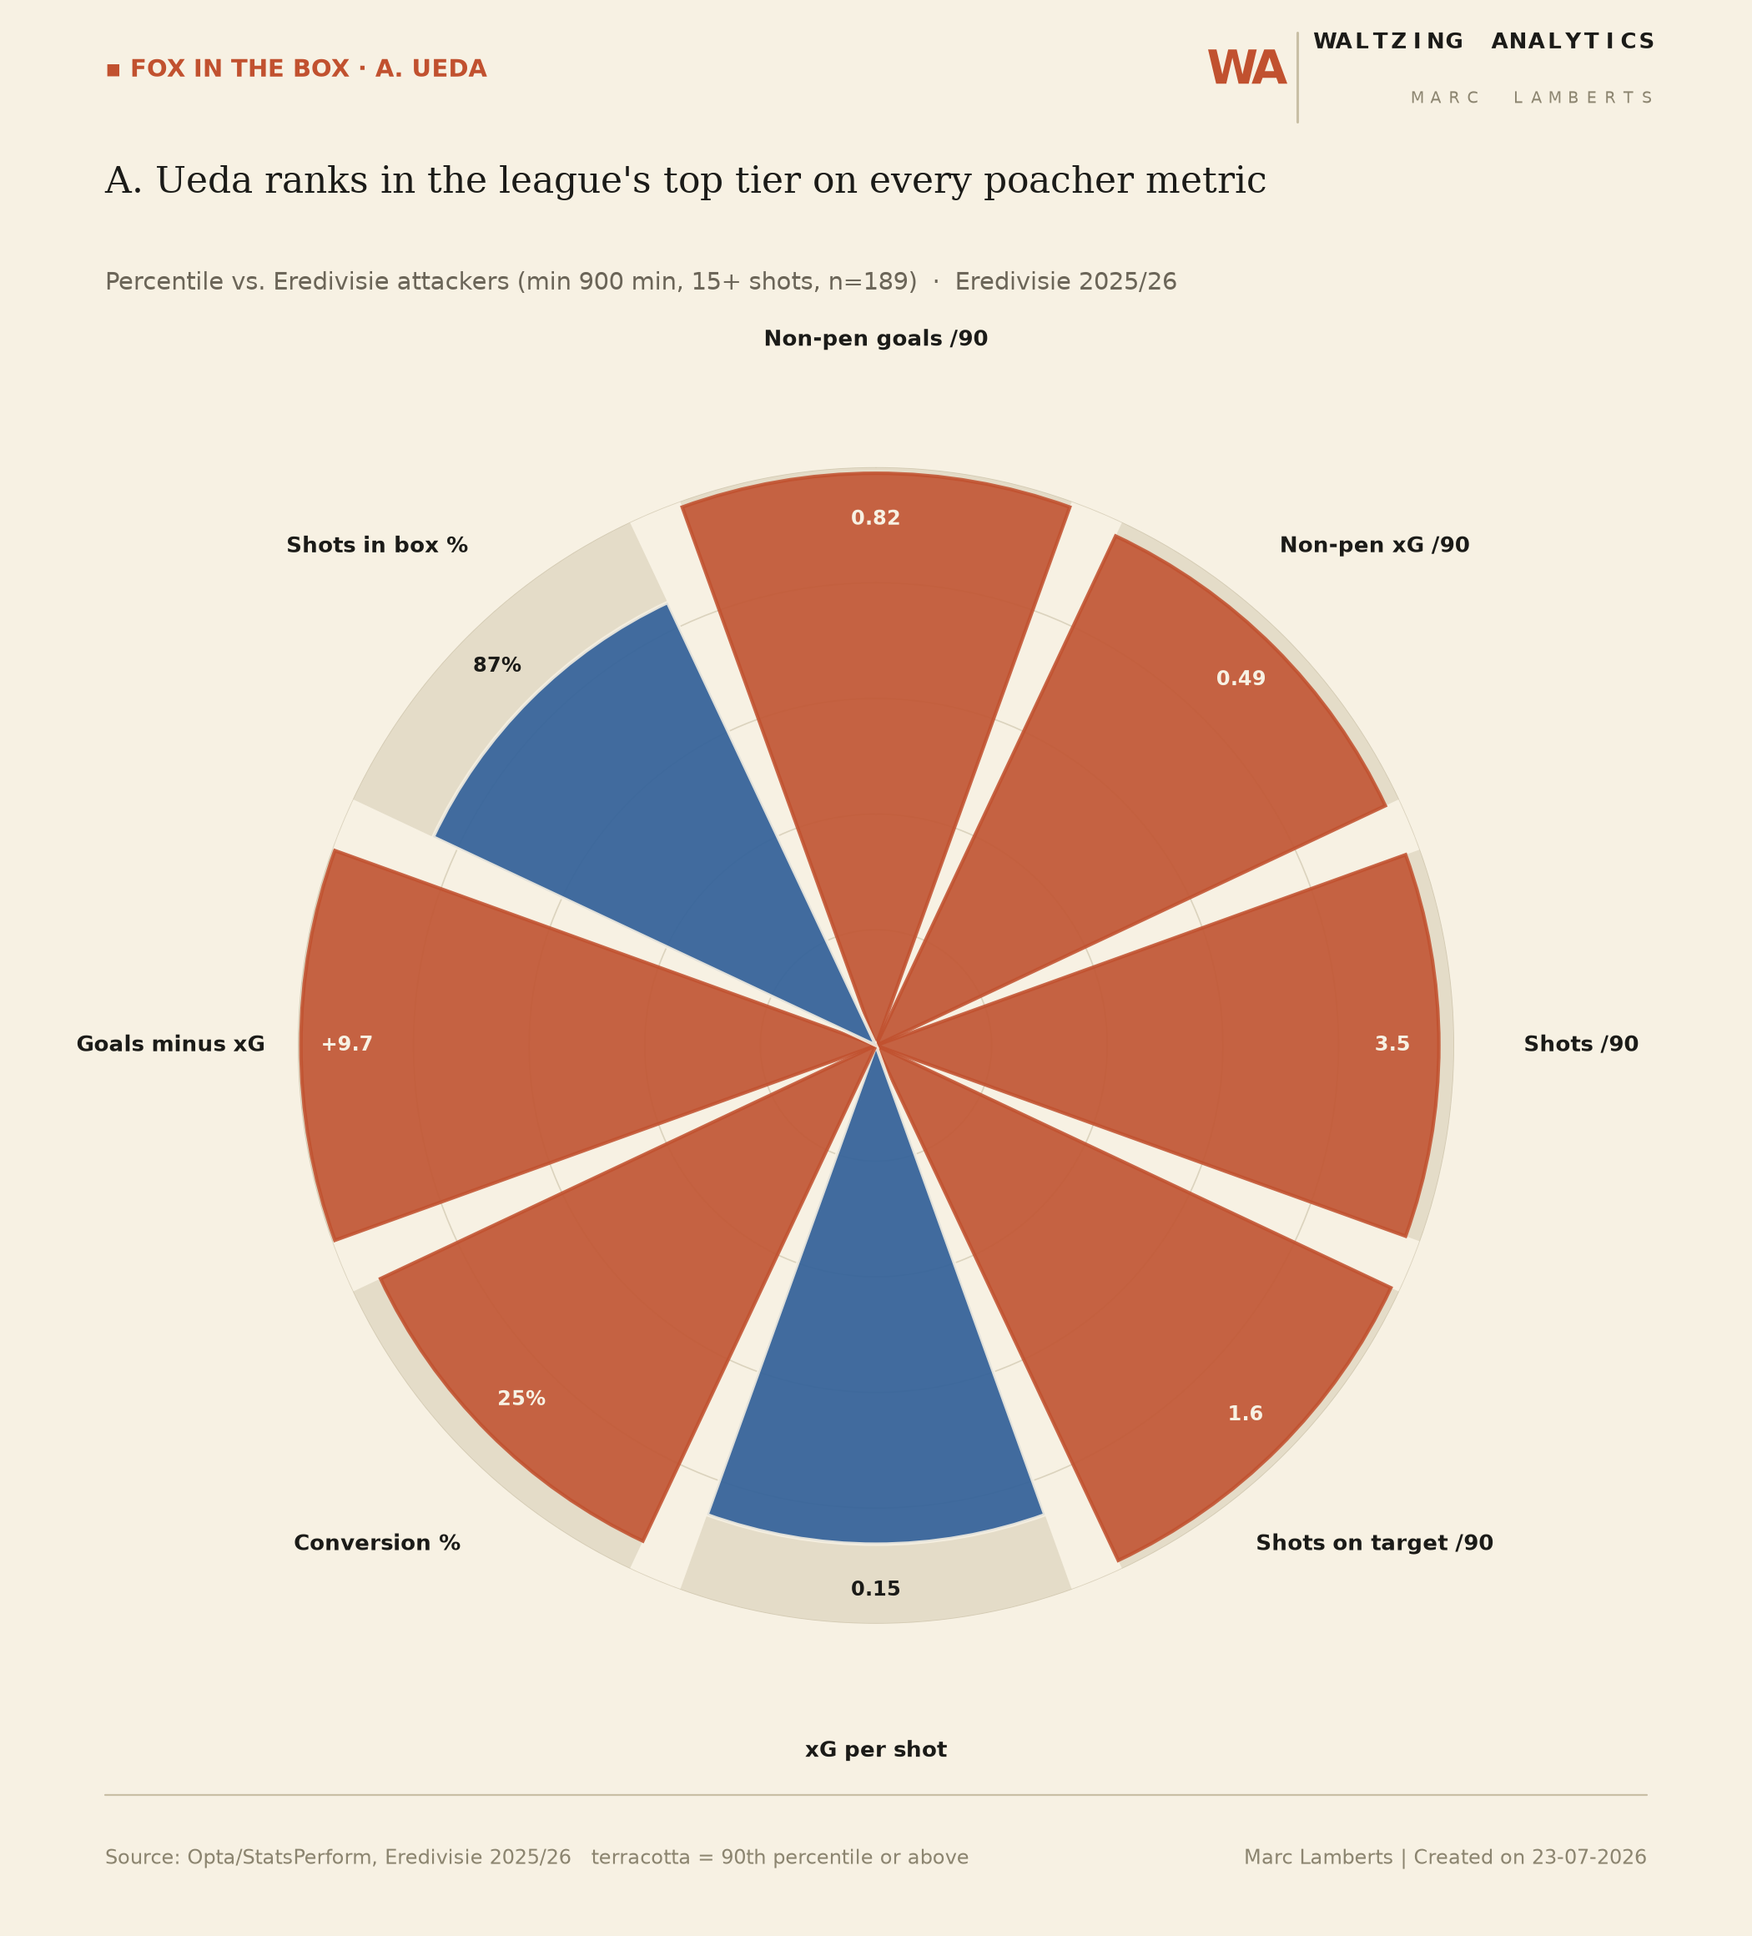
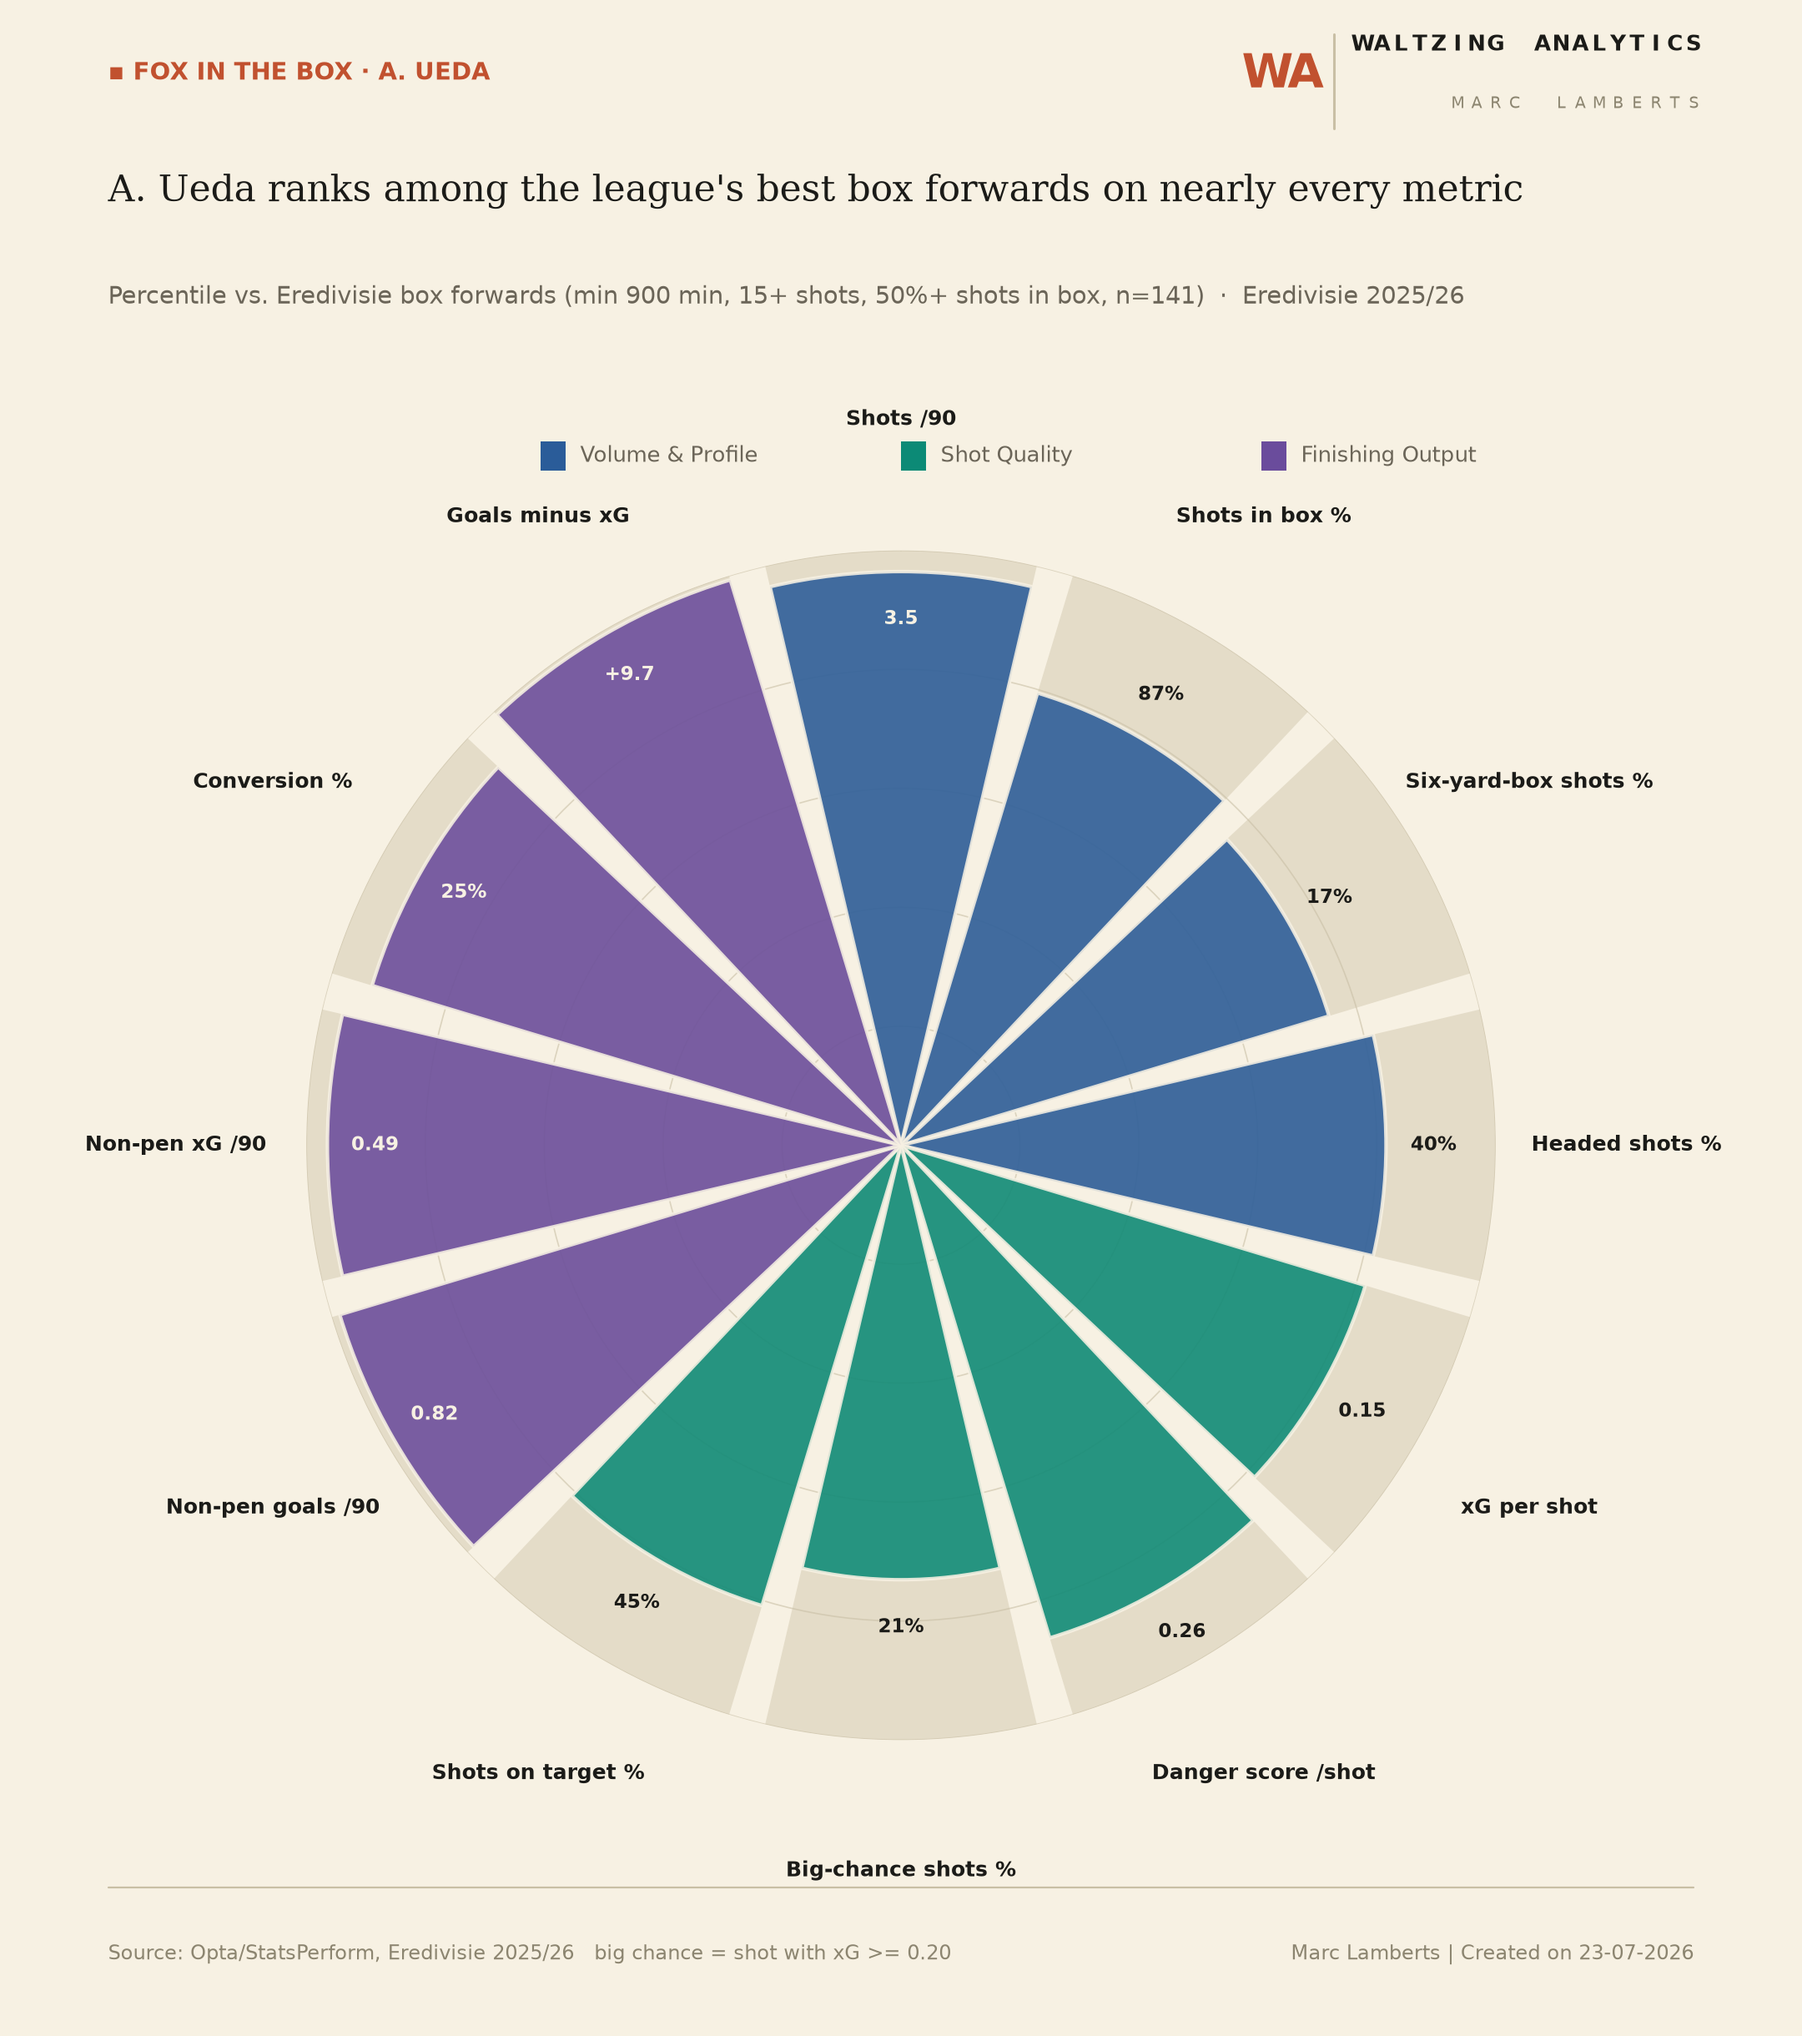
Make fox-in-the-box pizza plot more sophisticated: 3 categories, 12 metrics
Groups metrics into Volume & Profile / Shot Quality / Finishing Output
(color-coded, with a legend), adding headed-shots %, six-yard-box
shots %, danger-score-per-shot, and big-chance-shots % -- headers
recovered from raw Events qualifiers since body_part isn't in the
Danger CSV. Peer group now also requires >=50% of shots from inside
the box, so the comparison is against actual box forwards rather than
any attacker who logged 15 shots.

diff --git a/Danger/fox_in_the_box_pizza.py b/Danger/fox_in_the_box_pizza.py
@@ -1,10 +1,20 @@
 """
-"Fox in the box" pizza plot: percentile ranks on eight poacher-profile
-shooting metrics, one player against an Eredivisie attacking peer group
-(minutes >= 900, shots >= 15 -- enough attacking involvement to be a fair
-comparison without requiring a position field the underlying data doesn't
-carry). Combines shot-level data (Danger/all_eredivisie_danger_models.csv)
-with season minutes (GDA/gda_player_summary.csv).
+"Fox in the box" pizza plot: percentile ranks on twelve poacher-profile
+metrics across three categories, one player against an Eredivisie
+box-forward peer group (minutes >= 900, shots >= 15, and >= 50% of shots
+taken from inside the penalty box -- narrower and more defensible than a
+flat "attacker" filter, since it excludes wide/deep shot-takers who
+wouldn't be called foxes in the box in the first place).
+
+Categories:
+  Volume & Profile  -- how much of their shooting is box-based, and how
+  Shot Quality       -- how good the chances are once they get there
+  Finishing Output   -- what they actually do with them
+
+Sources: shot-level data (Danger/all_eredivisie_danger_models.csv),
+enriched with body-part (header) info recovered from the raw Events/*.json
+qualifiers (qualifierId 15 = head; not present in the Danger CSV itself),
+and season minutes (GDA/gda_player_summary.csv).
 
 Built in the Meridian house style (housestyle package).
 
@@ -12,6 +22,8 @@ Usage: python3 Danger/fox_in_the_box_pizza.py ["Player Name"] [out_dir]
 Defaults to A. Ueda.
 """
 import sys
+import glob
+import json
 from pathlib import Path
 
 sys.path.insert(0, str(Path(__file__).resolve().parent.parent))
@@ -19,38 +31,75 @@ sys.path.insert(0, str(Path(__file__).resolve().parent.parent))
 import numpy as np
 import pandas as pd
 import matplotlib.pyplot as plt
+import matplotlib.patches as mpatches
 
 from housestyle import style, components
 
 REPO_ROOT = Path(__file__).resolve().parent.parent
+EVENTS_DIR = REPO_ROOT / "Events"
 DANGER_CSV = REPO_ROOT / "Danger" / "all_eredivisie_danger_models.csv"
 GDA_CSV = REPO_ROOT / "GDA" / "gda_player_summary.csv"
 
 BOX_X = 83.0
+SIX_YARD_X = 94.0          # six-yard-box depth on the Opta 100x100 grid
+BIG_CHANCE_XG = 0.20       # conventional big-chance threshold (provider-independent rule of thumb)
+HEAD_QID = 15
+SHOT_TYPE_IDS = {13, 14, 15, 16}
+
 MIN_MINUTES = 900
 MIN_SHOTS = 15
+MIN_BOX_SHARE = 0.50
 
+# (key, label, format, category_index)
 METRICS = [
-    ("npg90", "Non-pen goals /90", "{:.2f}"),
-    ("npxg90", "Non-pen xG /90", "{:.2f}"),
-    ("shots90", "Shots /90", "{:.1f}"),
-    ("sot90", "Shots on target /90", "{:.1f}"),
-    ("xg_per_shot", "xG per shot", "{:.2f}"),
-    ("conversion", "Conversion %", "{:.0f}%"),
-    ("finishing", "Goals minus xG", "{:+.1f}"),
-    ("box_share_pct", "Shots in box %", "{:.0f}%"),
+    ("shots90", "Shots /90", "{:.1f}", 0),
+    ("box_share_pct", "Shots in box %", "{:.0f}%", 0),
+    ("six_yard_share_pct", "Six-yard-box shots %", "{:.0f}%", 0),
+    ("header_share_pct", "Headed shots %", "{:.0f}%", 0),
+    ("xg_per_shot", "xG per shot", "{:.2f}", 1),
+    ("danger_per_shot", "Danger score /shot", "{:.2f}", 1),
+    ("big_chance_share_pct", "Big-chance shots %", "{:.0f}%", 1),
+    ("sot_pct", "Shots on target %", "{:.0f}%", 1),
+    ("npg90", "Non-pen goals /90", "{:.2f}", 2),
+    ("npxg90", "Non-pen xG /90", "{:.2f}", 2),
+    ("conversion", "Conversion %", "{:.0f}%", 2),
+    ("finishing", "Goals minus xG", "{:+.1f}", 2),
 ]
+CATEGORY_NAMES = ["Volume & Profile", "Shot Quality", "Finishing Output"]
+
+
+def build_header_flags():
+    """event_id -> True/False for whether a shot was headed. Scans the raw
+    Events files once, since body_part isn't carried in the Danger CSV."""
+    flags = {}
+    for fn in sorted(glob.glob(str(EVENTS_DIR / "*.json"))):
+        with open(fn) as f:
+            data = json.load(f)
+        for e in data["event"]:
+            if e.get("typeId") not in SHOT_TYPE_IDS:
+                continue
+            qids = {q["qualifierId"] for q in e.get("qualifier", []) or []}
+            flags[e["id"]] = HEAD_QID in qids
+    return flags
 
 
 def build_peer_table():
     d = pd.read_csv(DANGER_CSV)
     d["pen_goal"] = (d["is_penalty"] == 1) & (d["is_goal"] == 1)
     d["in_box"] = d["x"] >= BOX_X
+    d["six_yard"] = d["x"] >= SIX_YARD_X
+    d["big_chance"] = d["xg"] >= BIG_CHANCE_XG
+
+    header_flags = build_header_flags()
+    d["is_header"] = d["event_id"].map(header_flags).fillna(False)
 
     g = d.groupby("player_name").agg(
         shots=("xg", "size"), goals=("is_goal", "sum"), xg=("xg", "sum"),
         on_target=("is_on_target", "sum"), pen_shots=("is_penalty", "sum"),
         pen_goals=("pen_goal", "sum"), box_share=("in_box", "mean"),
+        six_yard_share=("six_yard", "mean"), header_share=("is_header", "mean"),
+        big_chance_share=("big_chance", "mean"), danger=("danger_score", "sum"),
+        danger_per_shot=("danger_score", "mean"),
     ).reset_index()
     pen_xg = d[d["is_penalty"] == 1].groupby("player_name")["xg"].sum()
     g["pen_xg"] = g["player_name"].map(pen_xg).fillna(0.0)
@@ -61,16 +110,20 @@ def build_peer_table():
     gda = pd.read_csv(GDA_CSV)
     mins = gda.groupby("player_name")["minutes"].sum().reset_index()
     m = g.merge(mins, on="player_name", how="left").dropna(subset=["minutes"])
-    m = m[(m["minutes"] >= MIN_MINUTES) & (m["shots"] >= MIN_SHOTS)].copy()
+    m = m[(m["minutes"] >= MIN_MINUTES) & (m["shots"] >= MIN_SHOTS)
+          & (m["box_share"] >= MIN_BOX_SHARE)].copy()
 
     m["npg90"] = m["npg"] / m["minutes"] * 90
     m["npxg90"] = m["npxg"] / m["minutes"] * 90
     m["shots90"] = m["shots"] / m["minutes"] * 90
-    m["sot90"] = m["on_target"] / m["minutes"] * 90
+    m["sot_pct"] = m["on_target"] / m["shots"] * 100
     m["xg_per_shot"] = m["xg"] / m["shots"]
     m["conversion"] = m["goals"] / m["shots"] * 100
     m["finishing"] = m["npg"] - m["npxg"]
     m["box_share_pct"] = m["box_share"] * 100
+    m["six_yard_share_pct"] = m["six_yard_share"] * 100
+    m["header_share_pct"] = m["header_share"] * 100
+    m["big_chance_share_pct"] = m["big_chance_share"] * 100
     return m
 
 
@@ -81,28 +134,28 @@ def main():
     peers = build_peer_table()
     match = next((p for p in peers["player_name"] if player_name.lower() in p.lower()), None)
     if match is None:
-        print(f"Player '{player_name}' not found among qualifying attackers "
-              f"(min {MIN_MINUTES} minutes, {MIN_SHOTS} shots). "
+        print(f"Player '{player_name}' not found among qualifying box forwards "
+              f"(min {MIN_MINUTES} minutes, {MIN_SHOTS} shots, {MIN_BOX_SHARE:.0%} box share). "
               f"Options: {sorted(peers['player_name'])}")
         sys.exit(1)
 
     row = peers[peers["player_name"] == match].iloc[0]
     percentiles, raw_values = [], []
-    for key, _, _ in METRICS:
+    for key, _, _, _ in METRICS:
         pct = (peers[key] < row[key]).mean() * 100
         percentiles.append(pct)
         raw_values.append(row[key])
 
     palette, cats = style.apply("light")
-    ink_blue = cats[0]
+    cat_colors = [cats[0], cats[2], cats[6]]  # ink blue / teal / violet -- categorical, accent stays unused here
 
     n = len(METRICS)
     angles = np.linspace(0, 2 * np.pi, n, endpoint=False)
     width = 2 * np.pi / n * 0.88
 
-    fig = plt.figure(figsize=(10.5, 11.6))
+    fig = plt.figure(figsize=(10.8, 12.2))
     fig.patch.set_facecolor(palette["surface"])
-    ax = fig.add_axes([0.17, 0.16, 0.66, 0.60], projection="polar")
+    ax = fig.add_axes([0.17, 0.145, 0.66, 0.585], projection="polar")
     ax.set_facecolor(palette["surface"])
     ax.set_theta_offset(np.pi / 2)
     ax.set_theta_direction(-1)
@@ -112,11 +165,9 @@ def main():
         ax.plot(np.linspace(0, 2 * np.pi, 200), [ring] * 200, color=palette["axis"],
                  linewidth=0.6, alpha=0.6, zorder=2)
 
-    bars = ax.bar(angles, percentiles, width=width, color=ink_blue, alpha=0.88,
-                   zorder=3, edgecolor=palette["surface"], linewidth=1.5)
-    for a, pct in zip(angles, percentiles):
-        if pct >= 90:
-            bars[list(angles).index(a)].set_color(palette["accent"])
+    bar_colors = [cat_colors[cat_idx] for *_, cat_idx in METRICS]
+    ax.bar(angles, percentiles, width=width, color=bar_colors, alpha=0.88,
+           zorder=3, edgecolor=palette["surface"], linewidth=1.5)
 
     ax.set_ylim(0, 100)
     ax.set_xticks(angles)
@@ -125,36 +176,45 @@ def main():
     ax.spines["polar"].set_visible(False)
     ax.grid(False)
 
-    for angle, pct, raw, (key, label, fmt) in zip(angles, percentiles, raw_values, METRICS):
-        ax.text(angle, 122, label, ha="center", va="center", fontsize=9.3,
+    for angle, pct, raw, (key, label, fmt, cat_idx) in zip(angles, percentiles, raw_values, METRICS):
+        ax.text(angle, 122, label, ha="center", va="center", fontsize=9.0,
                  fontweight="bold", color=palette["ink_primary"], family="sans-serif")
         ax.text(angle, pct + 8 if pct < 88 else pct - 8,
-                 fmt.format(raw), ha="center", va="center", fontsize=8.5,
+                 fmt.format(raw), ha="center", va="center", fontsize=8.3,
                  fontweight="bold",
                  color=palette["ink_primary"] if pct < 88 else palette["surface"],
                  family="sans-serif")
 
-    team = "Feyenoord Rotterdam" if match == "A. Ueda" else ""
+    # category legend, under the dek
+    legend_y = 0.775
+    swatch_xs = [0.30, 0.50, 0.70]
+    for x, name, color in zip(swatch_xs, CATEGORY_NAMES, cat_colors):
+        fig.add_artist(mpatches.Rectangle((x, legend_y - 0.006), 0.014, 0.014,
+                                            transform=fig.transFigure, color=color))
+        fig.text(x + 0.022, legend_y + 0.001, name, fontsize=9.5, color=palette["ink_secondary"],
+                  family="sans-serif", ha="left", va="center")
+
     components.header(
         fig,
         kicker=f"Fox in the box · {match}",
-        title=f"{match} ranks in the league's top tier on every poacher metric",
-        dek=f"Percentile vs. Eredivisie attackers (min {MIN_MINUTES} min, {MIN_SHOTS}+ shots, "
-            f"n={len(peers)})  ·  Eredivisie 2025/26",
+        title=f"{match} ranks among the league's best box forwards on nearly every metric",
+        dek=f"Percentile vs. Eredivisie box forwards (min {MIN_MINUTES} min, {MIN_SHOTS}+ shots, "
+            f"{MIN_BOX_SHARE:.0%}+ shots in box, n={len(peers)})  ·  Eredivisie 2025/26",
         palette=palette,
     )
     components.footer(
         fig,
         source="Opta/StatsPerform, Eredivisie 2025/26",
-        note="terracotta = 90th percentile or above",
+        note=f"big chance = shot with xG >= {BIG_CHANCE_XG:.2f}",
         palette=palette,
     )
 
     out_path = out_dir / f"fox_in_the_box_pizza_{match.lower().replace(' ', '_').replace('.', '')}.png"
     fig.savefig(out_path, dpi=200, facecolor=palette["surface"])
     plt.close(fig)
-    print(f"{match}: " + ", ".join(f"{lbl}={fmt.format(v)} (p{p:.0f})"
-                                     for (k, lbl, fmt), v, p in zip(METRICS, raw_values, percentiles)))
+    print(f"{match} (n_peers={len(peers)}): " +
+          ", ".join(f"{lbl}={fmt.format(v)} (p{p:.0f})"
+                     for (k, lbl, fmt, c), v, p in zip(METRICS, raw_values, percentiles)))
     print("Saved:", out_path)
 
 
